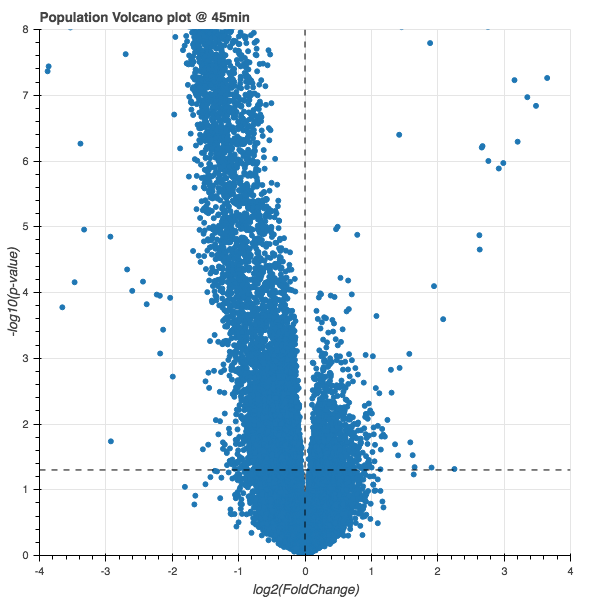
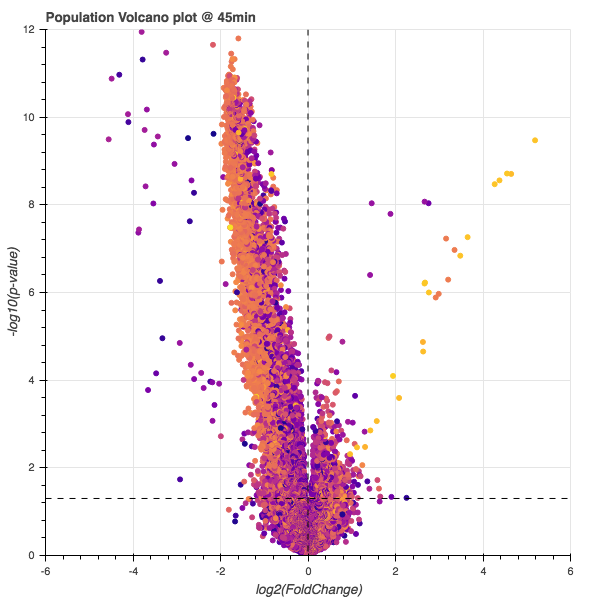
colored volcano plots and gif!

diff --git a/README.md b/README.md
@@ -1,3 +1,5 @@
 # ml_RIPC
 
 [![Binder](https://mybinder.org/badge_logo.svg)](https://mybinder.org/v2/gh/jzlab/ml_RIPC/master?filepath=notebooks%2Fload_data.ipynb)
+
+![](viz/ripc_volcano.gif)
